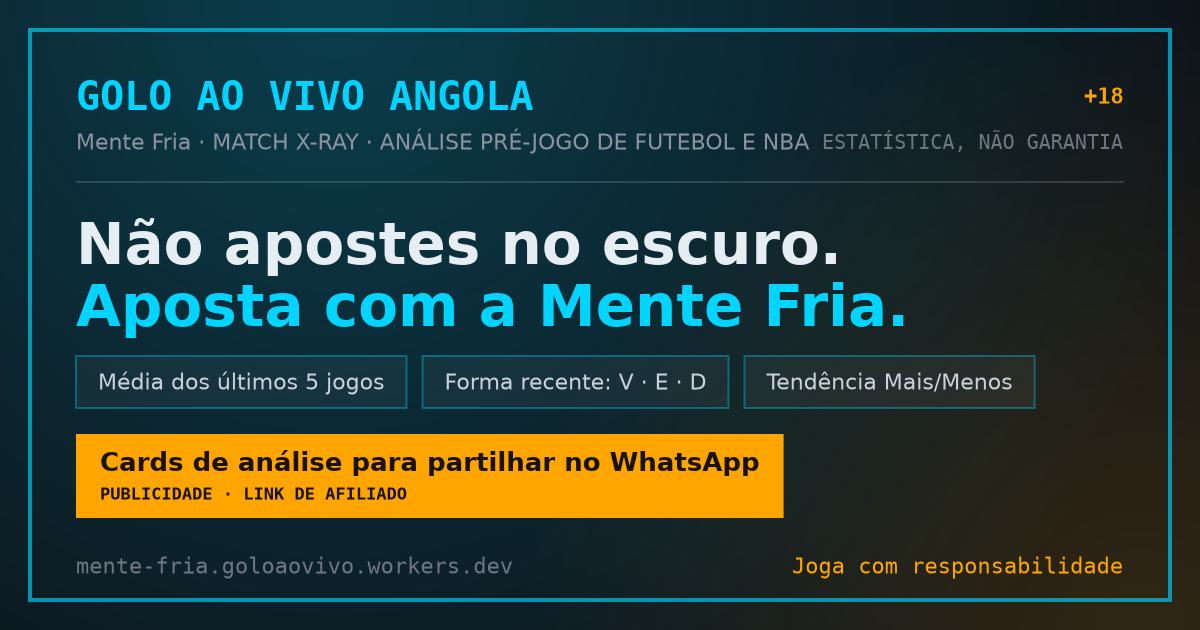
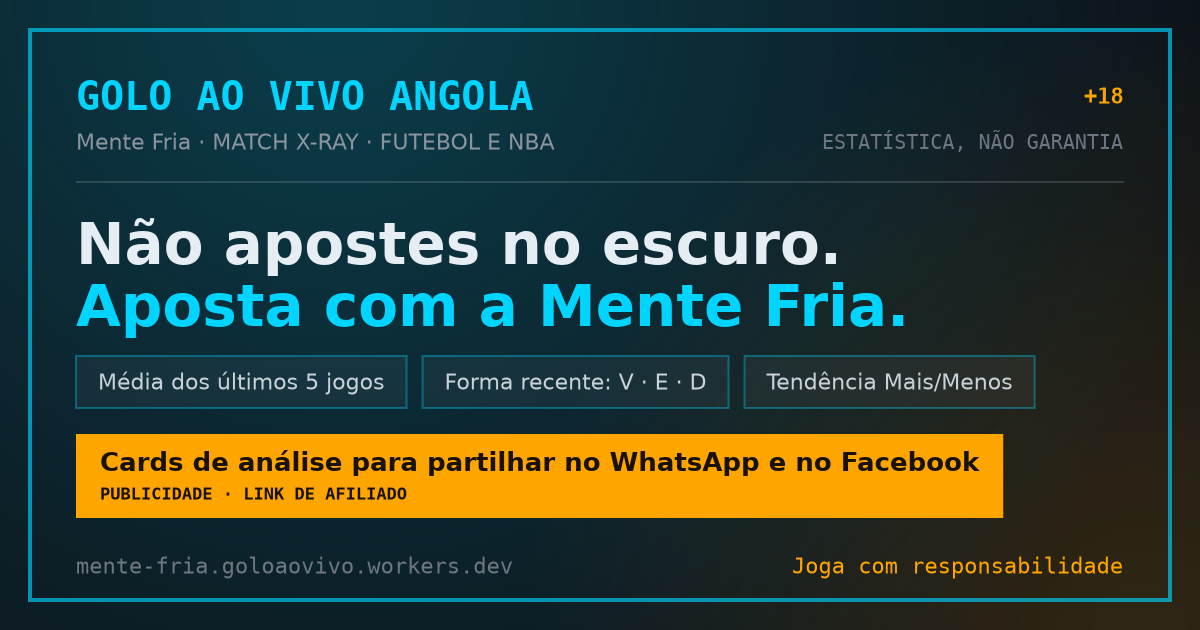
Imagem Open Graph anuncia a partilha no WhatsApp e no Facebook
O bloco âmbar da og-image dizia apenas WhatsApp, embora o card já tenha
botão para o Facebook; o texto passa a nomear as duas redes.

Changed region(s): [[0.6167, 0.6635, 0.8633, 0.8444], [0.3083, 0.2111, 0.6783, 0.2413]]

diff --git a/tools/gerar-og-image.js b/tools/gerar-og-image.js
@@ -71,7 +71,7 @@ chips.forEach((t) => {
 void LIMITE;
 
 // Bloco CTA âmbar (largura calculada a partir do texto — nunca transborda)
-const cta1 = "Cards de análise para partilhar no WhatsApp";
+const cta1 = "Cards de análise para partilhar no WhatsApp e no Facebook";
 const cta2 = "PUBLICIDADE · LINK DE AFILIADO";
 ctx.font = 'bold 26px "DVS", sans-serif';
 const w1 = ctx.measureText(cta1).width;
